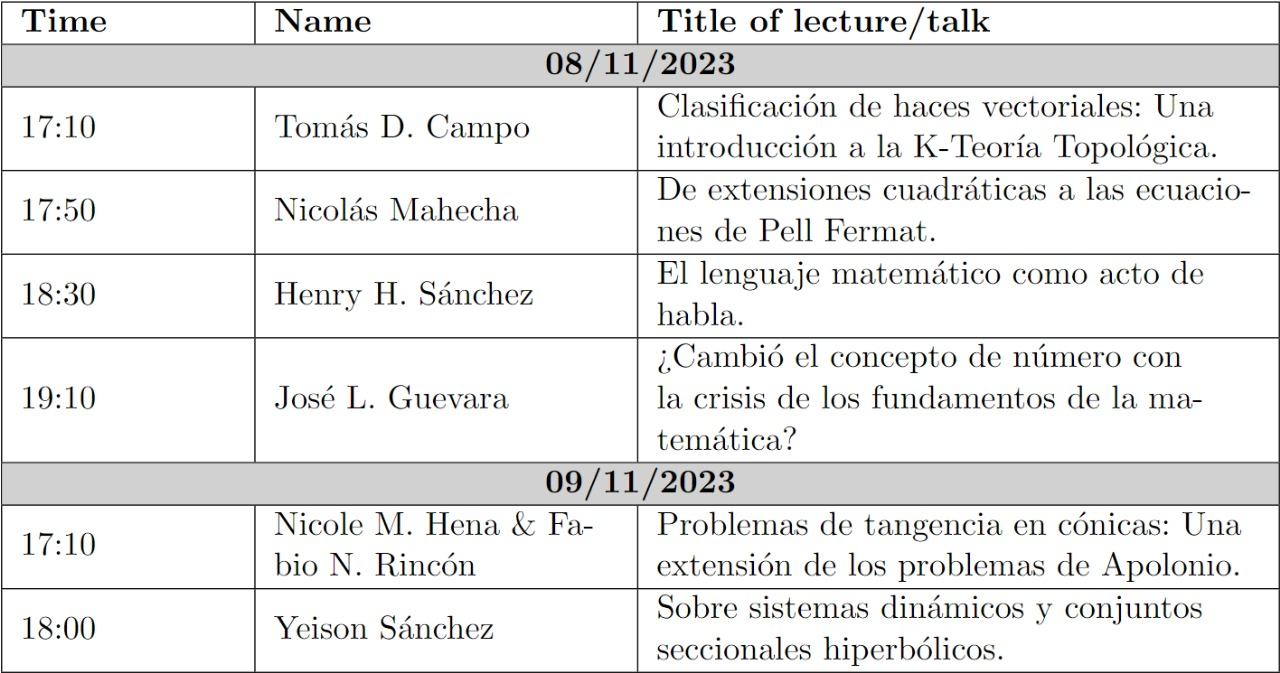
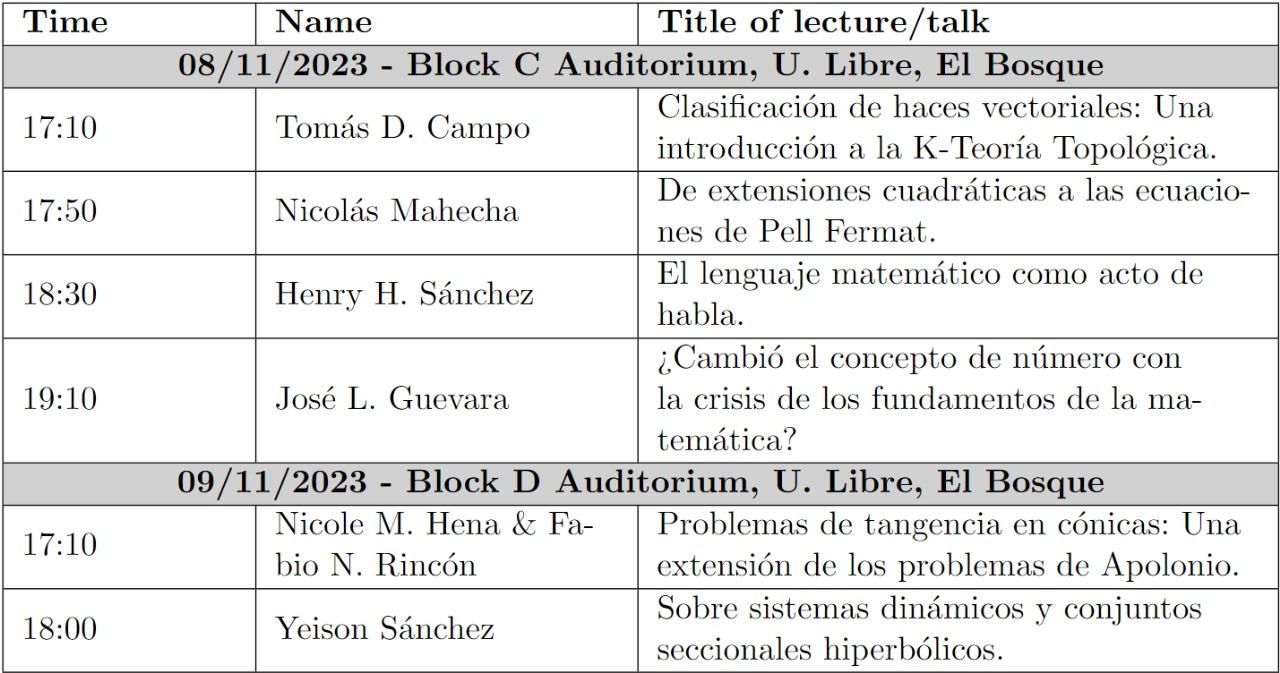
Commit 57

diff --git a/_pages/fsom.md b/_pages/fsom.md
@@ -9,24 +9,24 @@ redirect_from:
 
 {% include base_path %}
 
-The <i>First Seminar On Mathematics</i> at the Universidad Pedagógica Nacional is organized with the objective of promoting advancement and diversity in the field of Mathematics. This event, on behalf of the <i>SEIFM</i>, will provide a space to present advanced topics, foster academic collaboration and stimulate the training of students and teachers.
+The <i>First Seminar On Mathematics</i> of the <i>SEIFM</i> is organized with the objective of promoting the advancement and diversity in the field of Mathematics. This event, sponsored by the engineering faculty of the Universidad Libre, provides a space to present advanced topics, foster academic collaboration and stimulate the training of students and professors.
 
 Justification
 ======
-Holding the <i>First Seminar On Mathematics</i> at the Universidad Pedagógica Nacional is essential due to its ability to foster advancement and diversity in Mathematics. This event will allow the presentation of cutting-edge research, facilitate academic collaboration and promote the formation of the university community. In addition, the seminar will encourage critical reflection on contemporary challenges in the discipline, thus reinforcing the university's position as a center of excellence in Mathematics.
+Holding the <i>First Seminar On Mathematics</i> at the [Universidad Libre](https://www.unilibre.edu.co/bogota/) is essential because of its ability to foster advancement and diversity in Mathematics. The event will allow the presentation of cutting-edge research, facilitate academic collaboration and promote the formation of the university community. In addition, the seminar will encourage critical reflection on contemporary challenges in the discipline, thus reinforcing the university's position as a center of excellence in research.
 
 Objectives 
 ======
 
 General Objective
 ------
-To promote the advancement and dissemination of mathematical knowledge in the academic community of the Universidad Pedagógica Nacional through the organization of a seminar on Mathematics that explores various advanced topics in the discipline.
+To promote the advancement and dissemination of mathematical knowledge in the academic community of the [Universidad Libre](https://www.unilibre.edu.co/bogota/) through the organization of a seminar on Mathematics that explores various advanced topics in the discipline.
 
 Specific Objectives
 ------
 1. To provide a space for exhibition and analysis of cutting-edge mathematical research, presented by leading mathematicians, in order to promote dialogue and exchange of ideas in the field of Mathematics.
 1. Facilitate the exploration and understanding of diverse and advanced mathematical areas, promoting the diversity of approaches and perspectives within the discipline.
-1. To stimulate the active participation of students and professors of the Universidad Pedagógica Nacional in the seminar, encouraging their academic development and their interest in specialized areas of Mathematics.
+1. To stimulate the active participation of students and professors of the [Universidad Libre](https://www.unilibre.edu.co/bogota/) in the seminar, encouraging their academic development and their interest in specialized areas of Mathematics.
 1. To foster collaboration and academic networking among attendees, which could lead to future collaborations and research projects in Mathematics.
 
 Seminar Schedule
